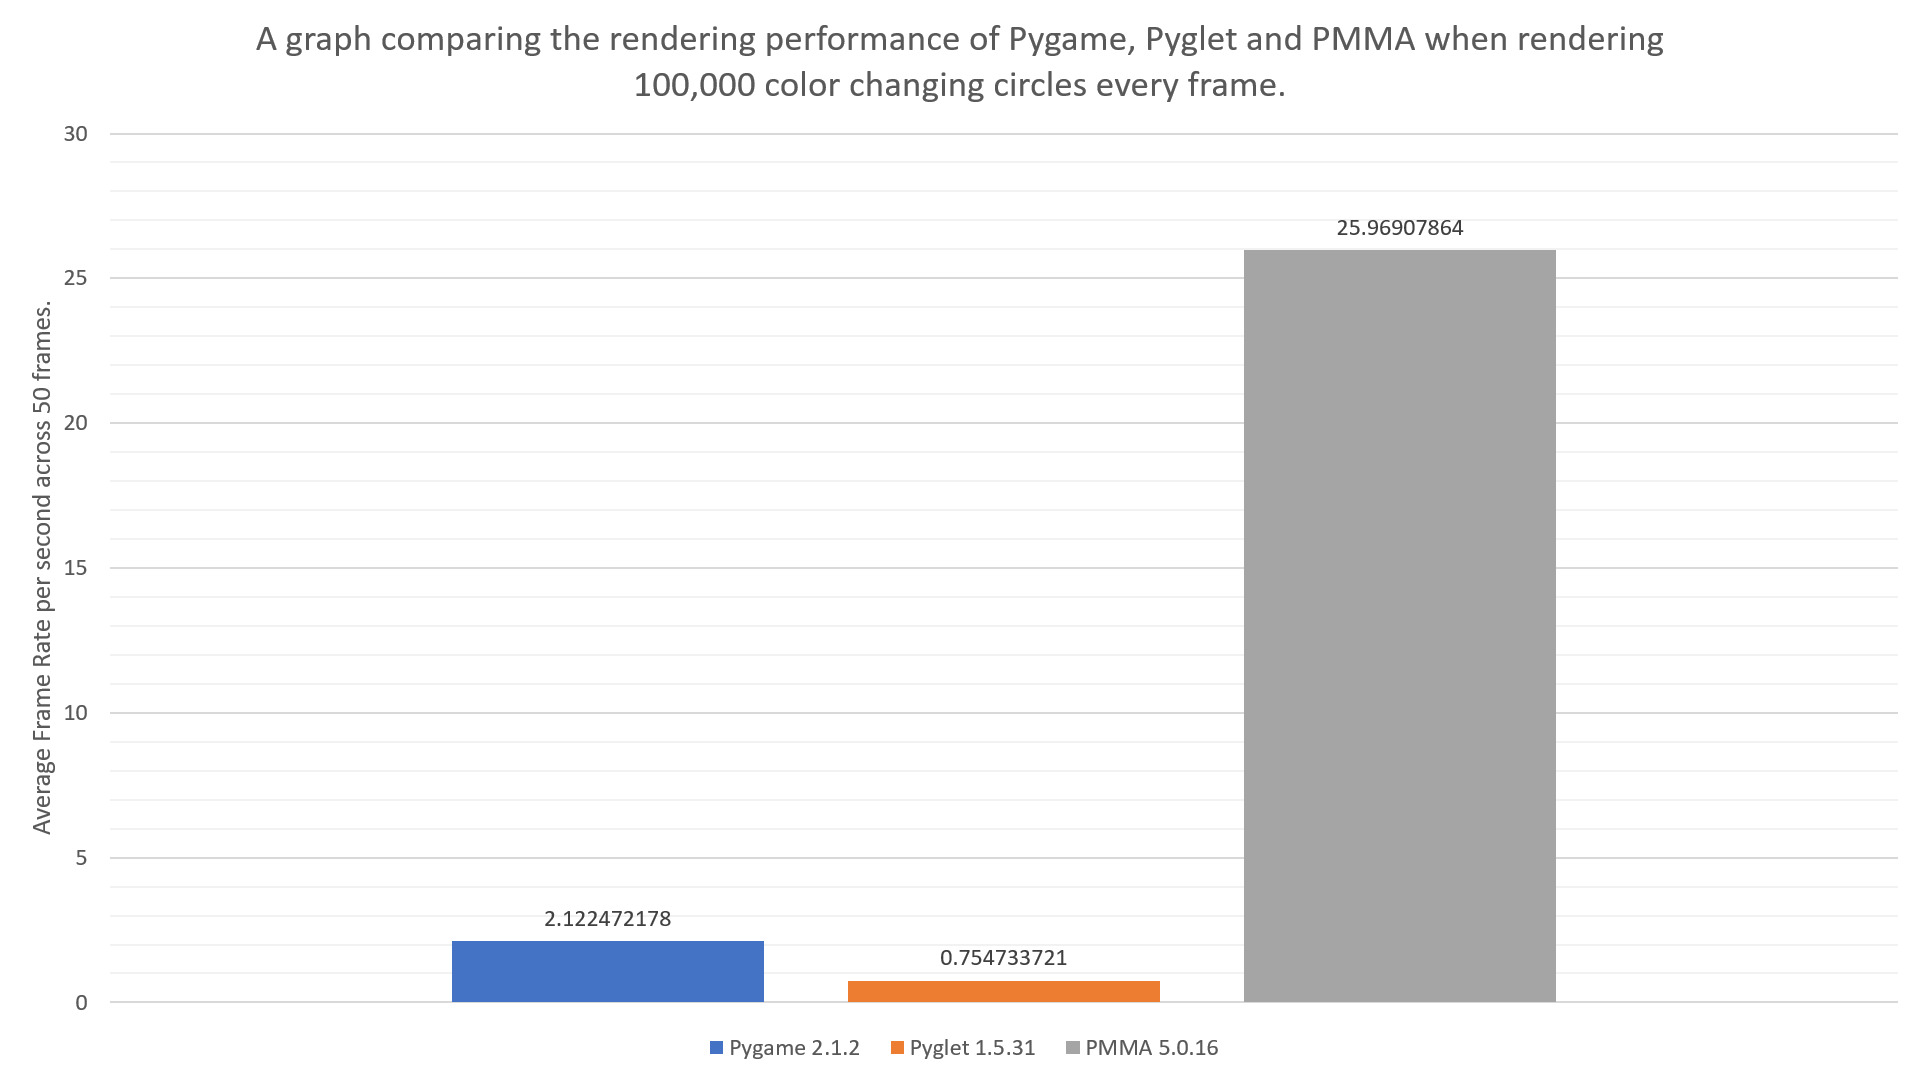
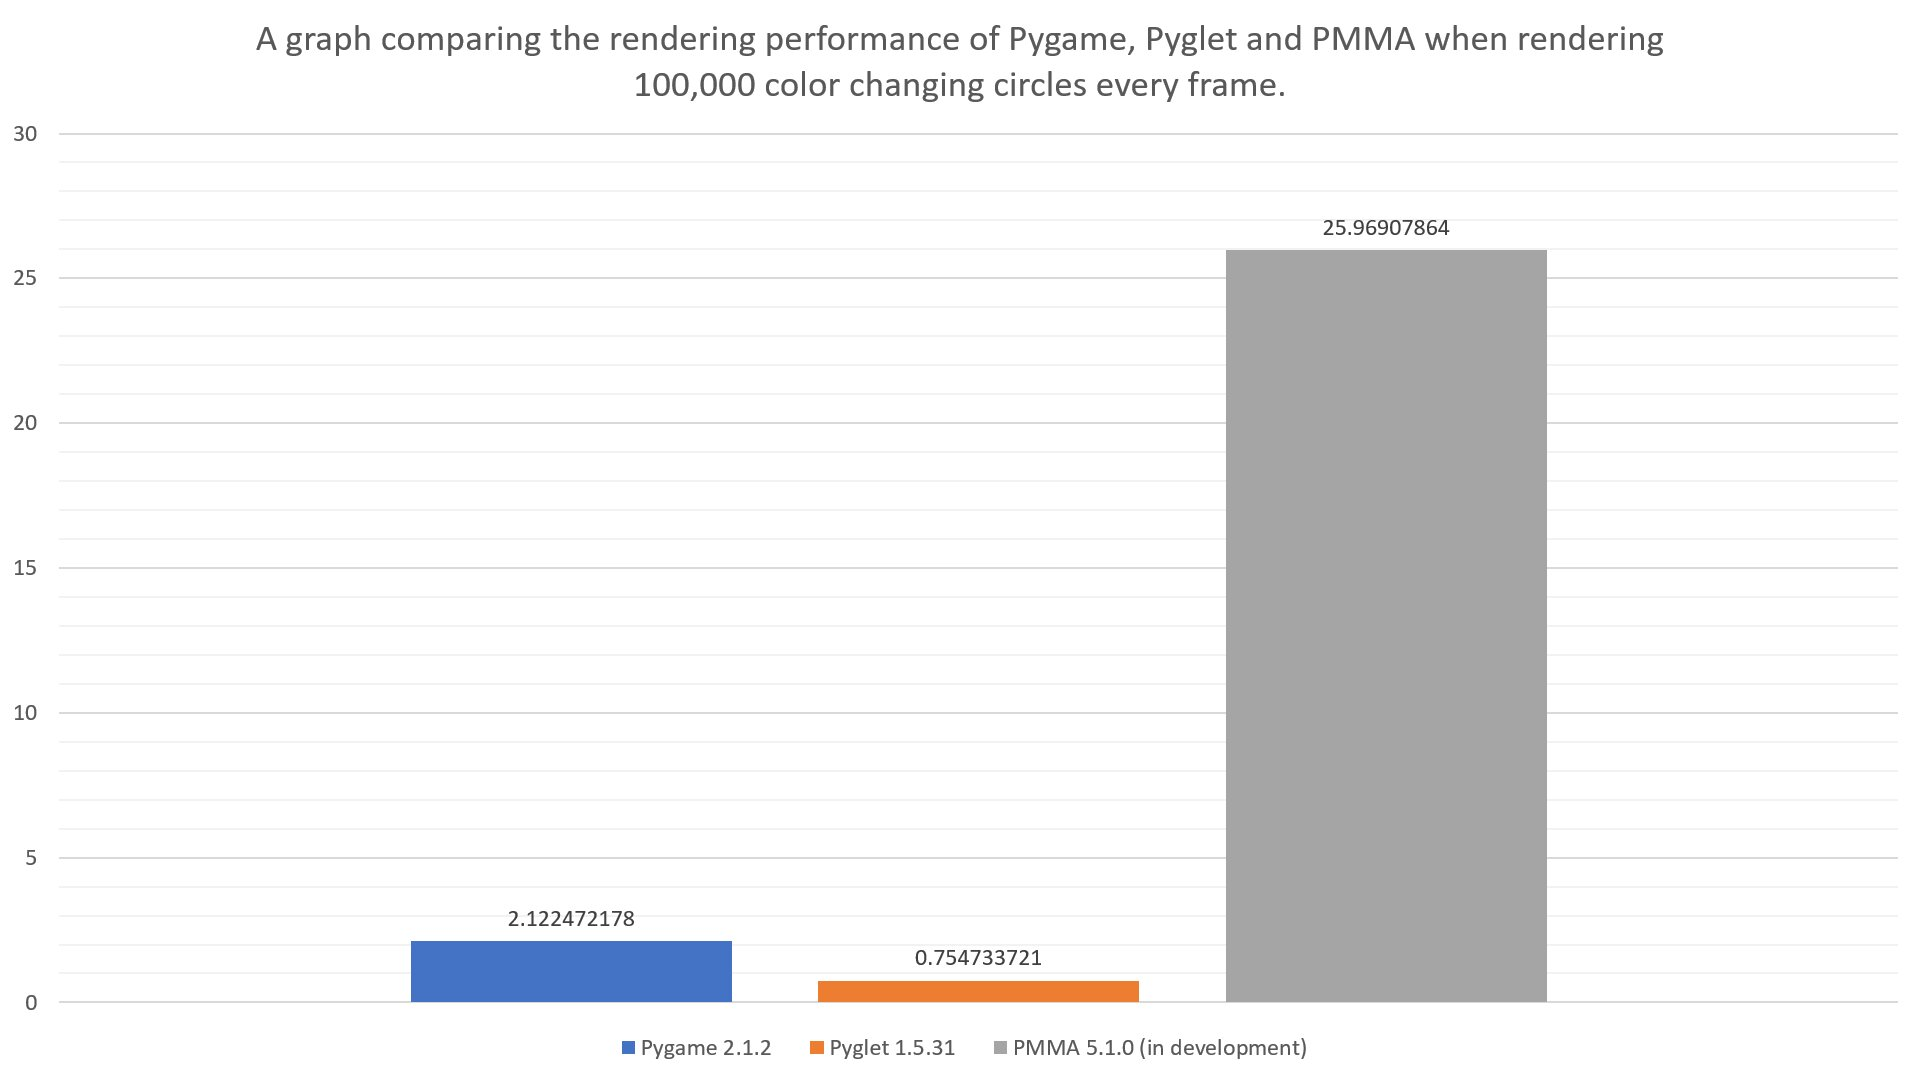
Updated PMMA portion of portfolio

diff --git a/Breakdown-PMMA.html b/Breakdown-PMMA.html
@@ -86,11 +86,9 @@
       simplicity, PMMA achieved this in: 34 lines of code, compared to 78 for Pygame
       and 67 for Pyglet.
 
-      That test was performed on the latest released version of PMMA (v5.0.16)
-      the currently in development version of PMMA (v5.1.0) further optimises the
-      rendering API and also exposes better the C++ API, allowing for PMMA to
-      be used in both Python, Cython and C++ projects. This same test was performed
-      in C++ comparing PMMA against SFML and the results were as follows:</br></br>
+      That test was performed on the latest developmental version of PMMA
+      (v5.1.0). This same test was performed in C++ comparing PMMA against
+      RayLib, SFML and the results were as follows:</br></br>
       <div class="graph">
         <img src="images/All Works/PMMA/benchmark_two.jpg" alt="Benchmark Two Graph">
       </div>
@@ -101,6 +99,12 @@
         versions there will be more of a distinction between PMMA
         and other libraries, with PMMA moving onto widgets and 3D graphics
         in the near future.
+      </i>
+    </br></br>
+
+      <i>Please note: This test was devised by a third party with no knowledge
+        of programming. Therefore bias towards the strengths of a specific
+        API has been minimised as much as possible.
       </i>
     </div>
 

diff --git a/css/styles-breakdown.css b/css/styles-breakdown.css
@@ -81,7 +81,7 @@ body{
 
 .graph img {
   display: block;      /* removes inline gap */
-  max-width: 50vw;     /* scales with parent width */
+  max-height: 50vh;     /* scales with parent width */
   height: auto;        /* keeps aspect ratio */
   border: 3px solid black;
   border-radius: 20px;
